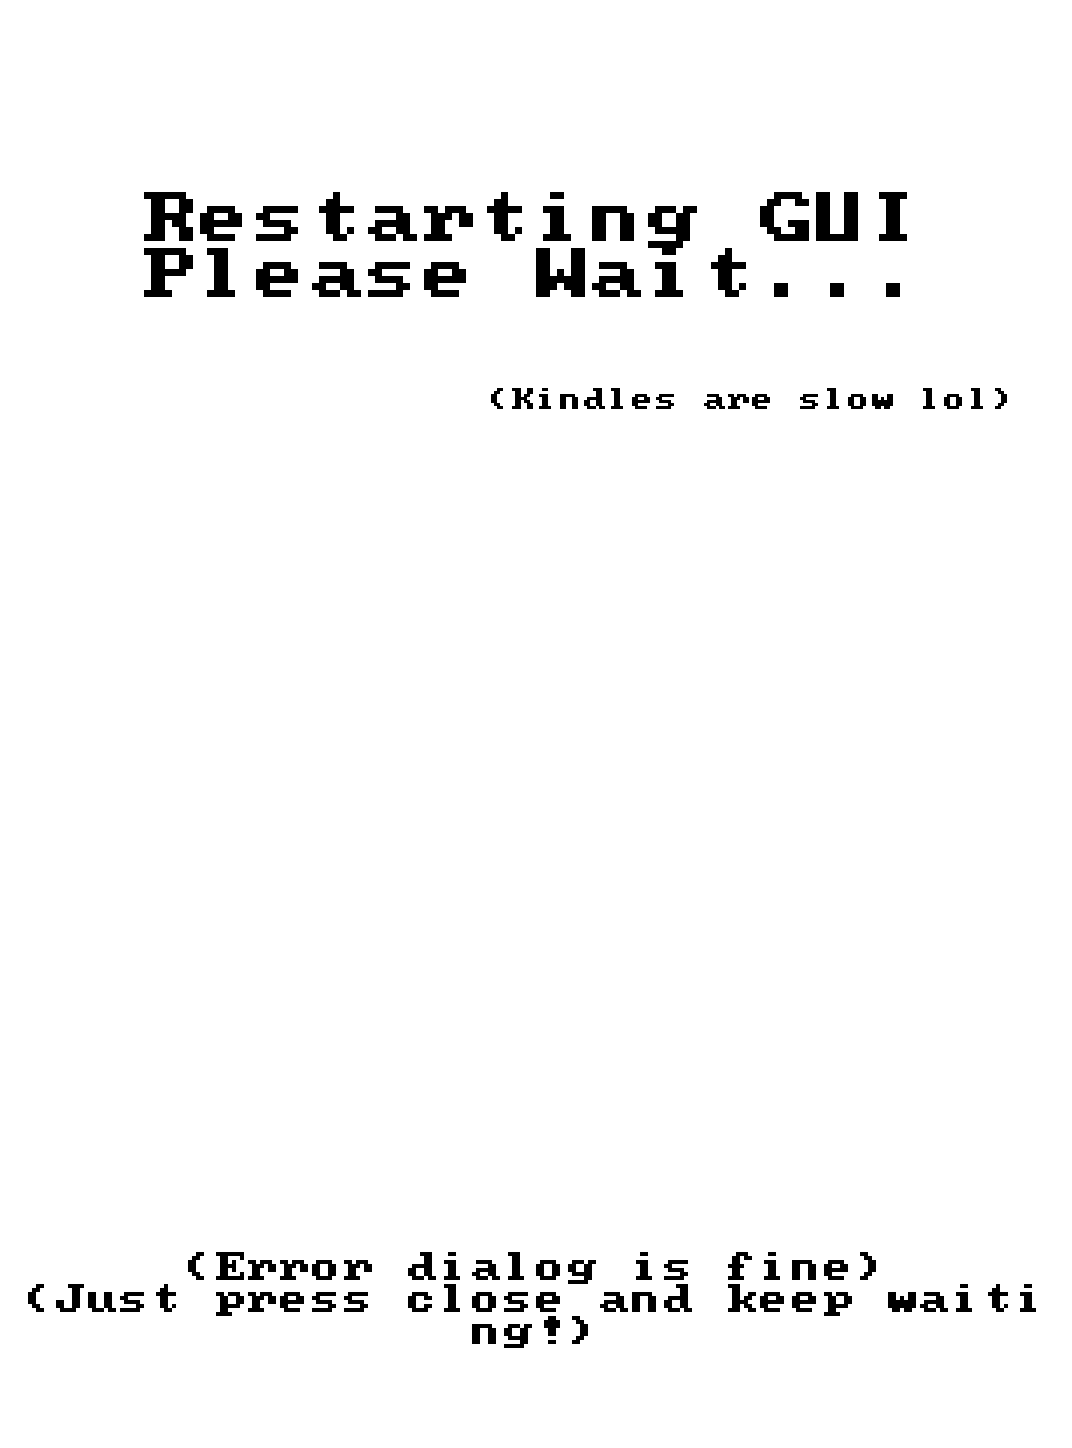
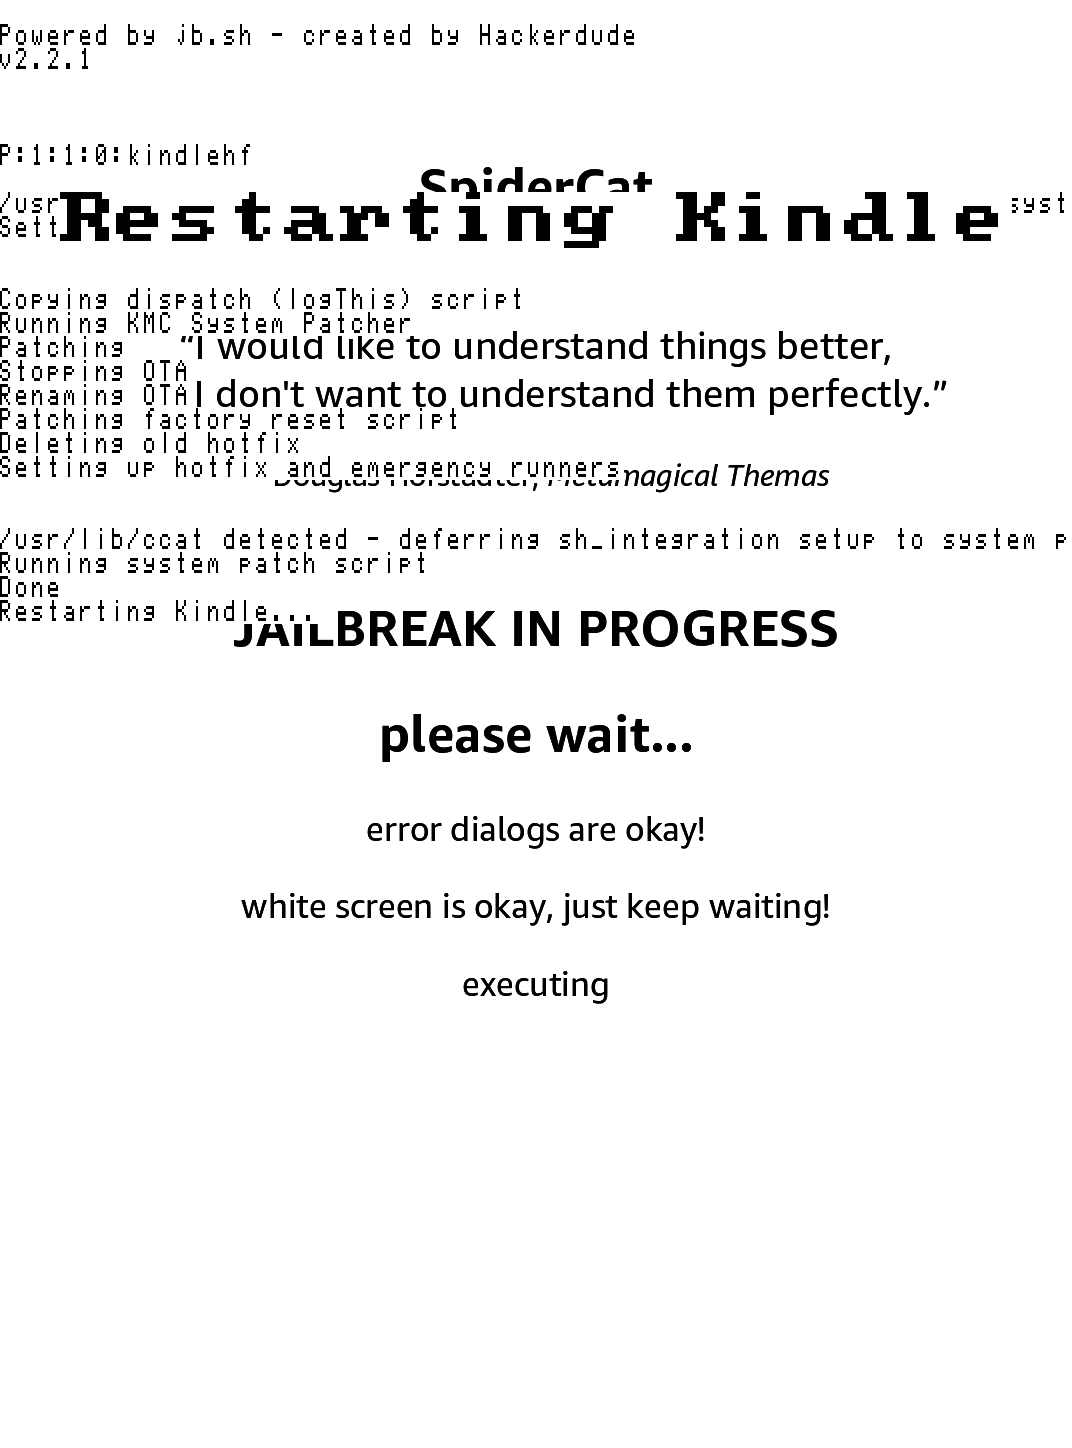
Replace 'restarting gui' with 'restarting kindle'

diff --git a/content/jailbreaking/SpiderCat/__index.md b/content/jailbreaking/SpiderCat/__index.md
@@ -94,7 +94,7 @@ SpiderCat is a jailbreak released on 01/09/26 by [sparklerfish](https://ko-fi.co
         <div class="step">
             <h2>Restart and Done!</h2>
             <div class="stepContent">
-                <p>When the jailbreak script completes, a "Restarting GUI" screen will appear.  This may take several minutes to bring you back to your home screen, and a white screen is normal during this process. Then, your device will be in a jailbroken state.</p>
+                <p>When the jailbreak script completes, "Restarting Kindle" will appear and the Kindle will reboot. Then, your device will be in a jailbroken state.</p>
                 <img src="./restarting.png" />
             </div>
         </div>
